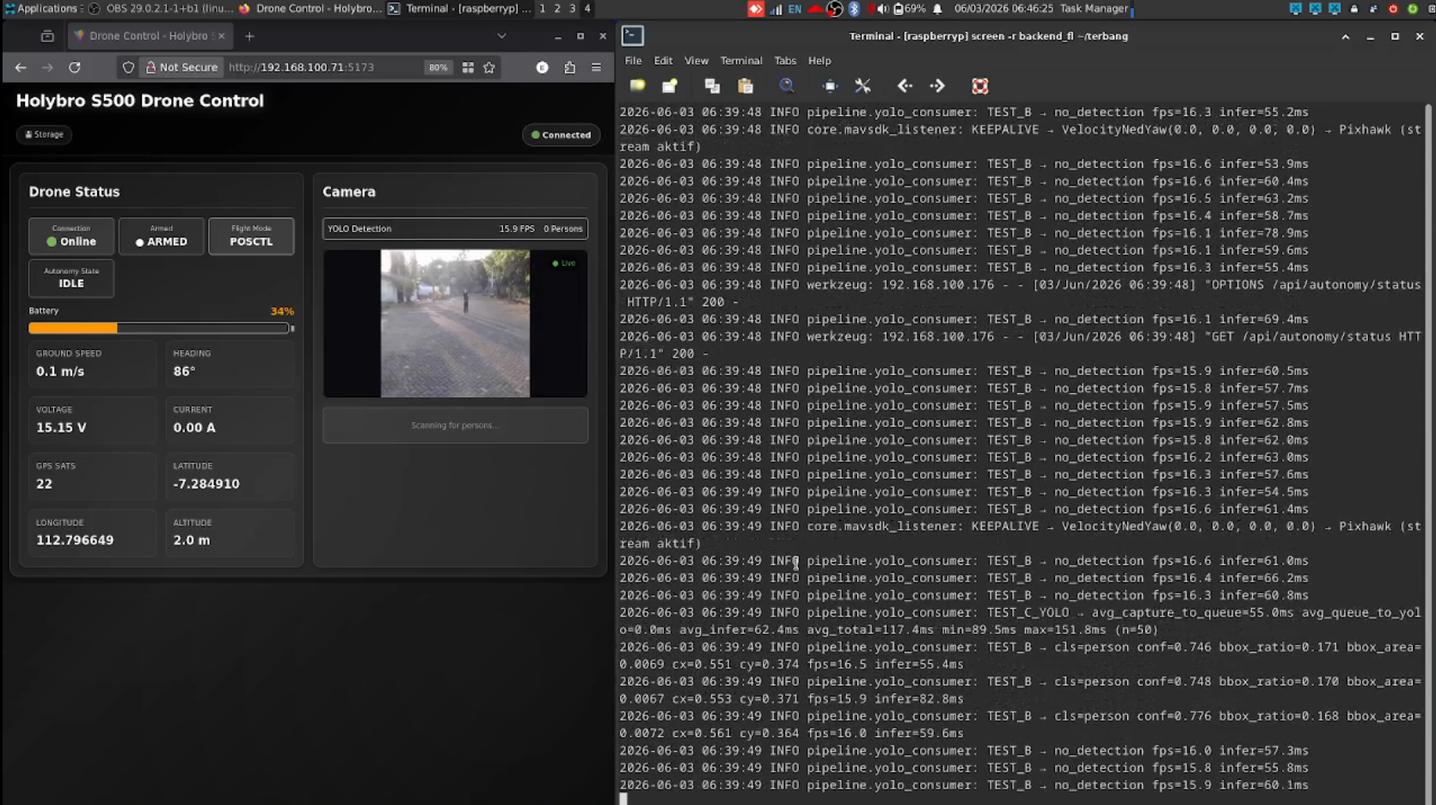
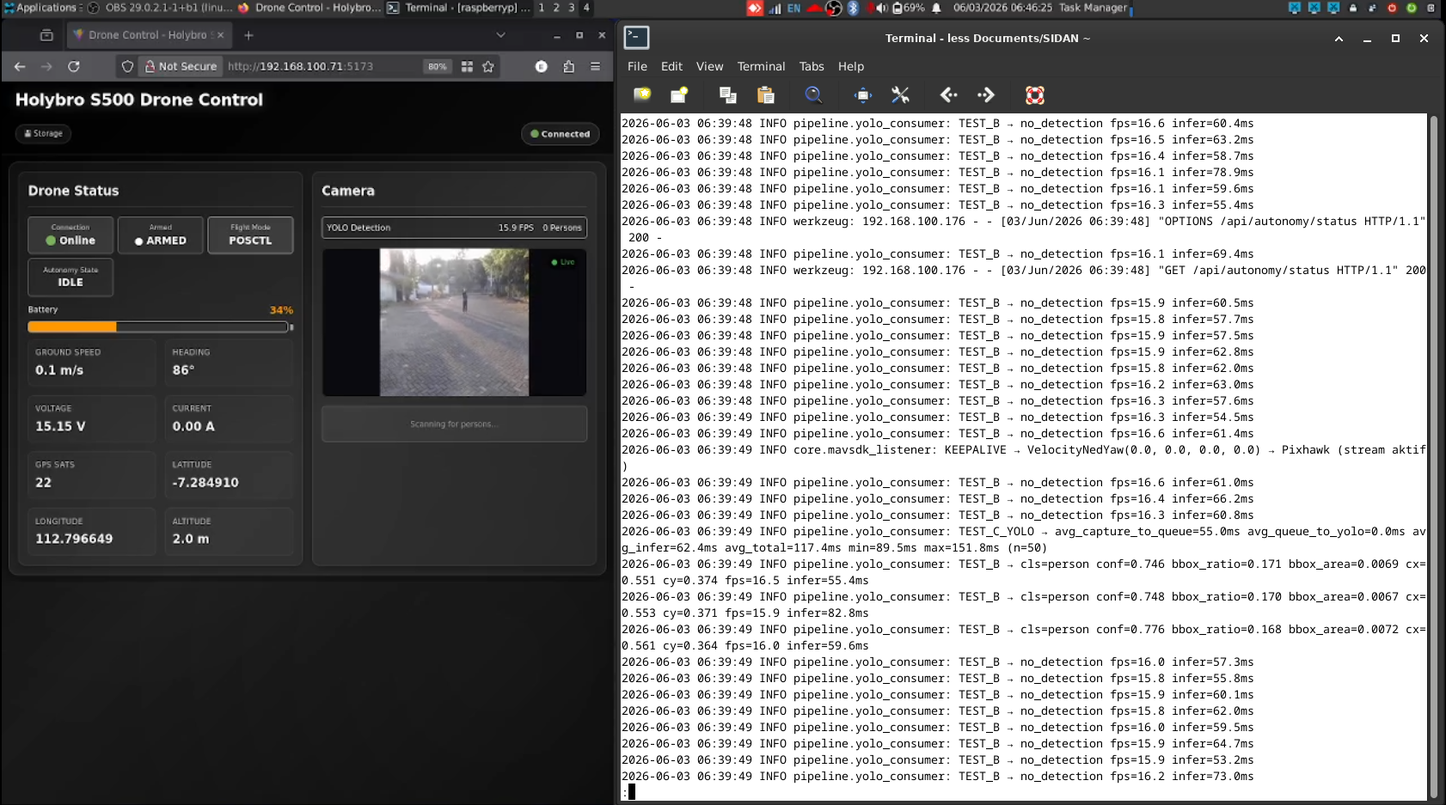
fix: for lecturer revision, change logs screenshot from dark to light mode

diff --git a/bab3/bab3.tex b/bab3/bab3.tex
@@ -51,14 +51,16 @@ Pada tahap ini dilakukan perancangan perilaku sistem kontrol drone otonom yang d
 \end{figure}
 
 \subsection{Perancangan Siklus Operasi Otonom}
-Perancangan siklus operasi otonom dilakukan untuk menentukan urutan perilaku drone selama menjalankan misi pencarian korban. Siklus operasi ini mencakup tahap inisialisasi sistem, aktivasi mode otonom, pelaksanaan pencarian korban, serta mekanisme penghentian misi dan keselamatan penerbangan. Pada sistem yang dirancang, pilot tetap memegang kendali utama pada tahap lepas landas untuk menjaga keselamatan penerbangan. Setelah drone berada pada kondisi terbang stabil, sistem otonom mulai mengambil alih proses navigasi dan pencarian korban secara otomatis berdasarkan logika state machine yang telah dirancang sebelumnya.
+Perancangan siklus operasi ini direpresentasikan dalam bentuk flowchart untuk menggambarkan urutan proses yang dijalankan drone selama misi pencarian korban. Alur operasi mencakup tahap inisialisasi sistem, aktivasi mode otonom melalui mode OFFBOARD, proses pencarian dan dokumentasi target, perpindahan area pencarian, hingga mekanisme penghentian misi melalui kondisi failsafe dan Return to Launch (RTL). Pada sistem yang dirancang, pilot tetap memegang kendali utama pada tahap lepas landas untuk menjaga keselamatan penerbangan. Setelah drone berada pada kondisi terbang stabil dan mode OFFBOARD diaktifkan, sistem otonom mulai mengambil alih proses navigasi dan pencarian korban secara otomatis.
 
 \begin{figure}[H]
 	\centering
-	\includegraphics[width=\linewidth]{bab3/flow3-3.pdf}
-	\caption{Blok Diagram Alur Scout Mission}
+	\includegraphics[width=0.5\textwidth]{bab3/flow3-3.pdf}
+	\caption{Flowchart Siklus Operasi Otonom Scout Mission}
 	\label{fig:blokdiagram3}
 \end{figure}
+
+Flowchart pada Gambar \ref{fig:blokdiagram3} menunjukkan urutan operasi sistem otonom selama pelaksanaan misi pencarian. Alur dimulai dari aktivasi mode OFFBOARD oleh pilot, dilanjutkan dengan proses pencarian target, pendekatan, dokumentasi, dan pergeseran area pencarian secara berulang. Siklus tersebut terus berlangsung hingga kondisi Return to Launch (RTL) terpenuhi akibat baterai kritis atau kehilangan koneksi sistem.
 
 \subsubsection{Inisialisasi Sistem}
 Tahap inisialisasi sistem merupakan tahap awal sebelum drone menjalankan mode otonom. Pada tahap ini seluruh komponen utama sistem diperiksa untuk memastikan kondisi operasional drone berada dalam keadaan layak terbang. Sistem melakukan pemeriksaan terhadap koneksi flight controller, validitas data GPS, kapasitas baterai, status kamera, dan ketersediaan data telemetri. Selain itu, sistem juga memastikan bahwa komunikasi antara companion computer dan flight controller telah berjalan dengan baik sebelum mode otonom diaktifkan. Proses inisialisasi bertujuan untuk meminimalkan risiko kegagalan sistem selama misi berlangsung dan memastikan seluruh subsistem dapat bekerja secara stabil sebelum drone menjalankan operasi pencarian.
@@ -295,7 +297,6 @@ Desain elektrikal bertujuan untuk mengatur skema aliran daya ke seluruh komponen
 
 Tahap desain mekanik berfokus pada perancangan struktur pendukung untuk mengintegrasikan komponen tambahan pada rangka \textit{quadcopter} Holybro S500. Prinsip utama dalam perancangan ini adalah menjaga keseimbangan drone dengan memperhatikan distribusi massa terhadap titik berat (\textit{center of gravity}/CG). Seluruh komponen tambahan dirancang untuk ditempatkan secara terpusat dan simetris pada bagian bawah rangka drone. Penempatan massa pada bagian bawah bertujuan untuk menurunkan posisi pusat massa sistem sehingga dapat meningkatkan stabilitas statis serta mengurangi kecenderungan osilasi saat drone melakukan navigasi otonom.
 
-% ================= PARAGRAF BARU: METODOLOGI CAD & LUBANG BAUT =================
 Seluruh proses perancangan geometri komponen mekanik dilakukan menggunakan metode pemodelan parametrik (\textit{parametric modeling}) pada perangkat lunak Autodesk Fusion 360. Pendekatan parametrik dipilih untuk mempermudah penyesuaian dimensi secara konsisten apabila terjadi perubahan spesifikasi komponen elektronik. Konfigurasi lubang pengikat pada perangkat lunak dirancang menggunakan fitur \textit{Hole} dengan spesifikasi \textit{Hole Type} berupa \textit{Simple} dan \textit{Counterbore} (untuk menyembunyikan kepala baut), \textit{Hole Tap Type} berjenis \textit{Simple}, serta bentuk ujung mata bor (\textit{Drill Point}) bertipe \textit{Flat} agar sesuai dengan karakteristik deposisi \textit{layer} cetak 3D.
 
 Dalam perancangan sirkuit pengikat, dimensi lubang baut (\textit{clearance holes}) dan ketebalan dinding tiang baut (\textit{standoff/boss}) disesuaikan dengan presisi untuk mengantisipasi efek penyusutan (\textit{shrinkage}) material plastik \textit{Fused Deposition Modeling} (FDM). Secara spesifik, perancangan dimensi lubang ditetapkan sebagai berikut:
@@ -307,7 +308,6 @@ Dalam perancangan sirkuit pengikat, dimensi lubang baut (\textit{clearance holes
 \end{itemize}
 
 Selain pengaturan diameter lubang, celah antar sambungan (\textit{assembly clearance}) pada komponen modular diatur pada rentang 0,1 mm hingga 0,2 mm. Nilai toleransi ini diterapkan untuk menjamin kelancaran proses perakitan fisik (\textit{fitment}) sekaligus mencegah adanya kelonggaran (\textit{play}) mekanis yang dapat memperparah getaran (\textit{vibration propagation}) dari motor drone ke sensor kamera.
-% ==============================================================================
 
 Dalam perancangan mekanik ini, proses penyatuan antar komponen hasil cetak 3D maupun integrasi dengan rangka utama dilakukan menggunakan pengikat mekanis (\textit{fasteners}) berupa baut baja metrik dan mur pengunci. Penggunaan baut M3 $\times$ 15 mm diaplikasikan pada struktur utama untuk meningkatkan kekakuan dan kestabilan sambungan mekanik. Sementara itu, baut M2 dengan variasi panjang 8 mm, 12 mm, dan 15 mm digunakan untuk mengunci kompartemen baterai, pelindung regulator daya, \textit{casing} Raspberry Pi, serta dudukan kamera.
 \begin{table}[H]
@@ -813,7 +813,26 @@ Sebagai sistem udara tanpa awak yang didesain untuk ranah pencarian korban di ar
 \begin{itemize}
 	\item OFFBOARD Keepalive: Mengingat batasan keamanan internal \textit{firmware} PX4, sistem secara konstan menembakkan setpoint instruksi kendali bernilai netral (\textit{keepalive}) sebanyak 20 kali per detik bahkan saat drone masih di darat. Ini adalah mitigasi agar PX4 mengizinkan perpindahan \textit{mode} penerbangan ke \textit{OFFBOARD} kapan pun pilot pada kendali radio menginginkannya.
 	\item Connection Watchdog: Mengawasi kontinuitas koneksi dari MAVSDK. Apabila putus dalam durasi tertentu, sistem seketika memicu perintah berhenti darurat (\textit{emergency stop}).
-	\item Battery Failsafe: Telemetri baterai dipantau secara kontinu. Apabila tingkat kapasitas baterai menyentuh ambang batas kritis (\texttt{BATTERY\_RTL\_THRESHOLD} sebesar $< 15\%$), sistem secara otomatis membatalkan seluruh tugas navigasi dan memicu fase pengamanan berupa pendakian paksa vertikal (\textit{pre-RTL safety climb}) selama 3,0 detik ke atas pada kecepatan $vz = -0,8$ m/s guna memitigasi efek penyimpangan barometer (\textit{barometric drift}). Setelah fase pendakian keselamatan selesai, drone mengirimkan perintah mode \textit{Return to Launch} (RTL) bawaan PX4 secara aman untuk menghentikan misi dan pulang ke titik asal lepas landas.
+	\item Battery Failsafe: Telemetri baterai dipantau secara kontinu. Apabila tingkat kapasitas baterai menyentuh ambang batas kritis sebesar $< 15\%$, sistem secara otomatis membatalkan seluruh tugas navigasi dan memicu fase pengamanan berupa pendakian paksa vertikal (\textit{pre-RTL safety climb}) selama 3,0 detik ke atas pada kecepatan $vz = -0,8$ m/s guna memitigasi efek penyimpangan barometer (\textit{barometric drift}). Setelah fase pendakian keselamatan selesai, drone mengirimkan perintah mode \textit{Return to Launch} (RTL) bawaan PX4 secara aman untuk menghentikan misi dan pulang ke titik asal lepas landas.
+
+	Mekanisme \textit{Battery Return-to-Launch} (RTL) yang diimplementasikan pada penelitian ini murni merupakan mekanisme keselamatan pada perangkat lunak otonom di \textit{companion computer} Raspberry Pi 5 dan sama sekali tidak menggunakan estimasi energi penerbangan. Sistem tidak menghitung kebutuhan energi berdasarkan jarak spasial menuju titik asal (\textit{home position}), tidak melakukan prediksi sisa waktu terbang (\textit{remaining flight time}), serta tidak mengestimasi konsumsi daya motor propulsi. Keputusan aktivasi Battery RTL menggunakan pendekatan \textit{fixed threshold} sebesar 15\% berdasarkan persentase baterai yang diterima melalui telemetri MAVSDK.
+
+	Nilai ambang batas sebesar 15\% ditetapkan sebagai parameter keselamatan operasional sistem. Nilai tersebut dipilih secara empiris berdasarkan konfigurasi pengujian yang digunakan pada penelitian ini. Threshold digunakan untuk menjamin tersedianya energi yang memadai selama:
+	\begin{itemize}
+		\item penghentian misi aktif,
+		\item pelaksanaan \textit{Pre-RTL Safety Climb},
+		\item transisi mode penerbangan,
+		\item dan proses \textit{Return-to-Launch}.
+	\end{itemize}
+	Urutan kerja operasional dari mekanisme keselamatan \textit{Battery RTL} ini berjalan secara sekuensial. Awalnya, \textit{Battery Sensor} mengukur status fisik daya baterai, lalu mengirimkannya ke \textit{PX4 Battery Estimator} untuk diestimasi persentasenya. Data persentase baterai ini ditransmisikan melalui \textit{MAVSDK Telemetry} ke \textit{companion computer} Raspberry Pi 5. Raspberry Pi 5 memonitor nilai persentase baterai ini secara terus-menerus. Ketika kapasitas baterai berada di atas batas kritis ($> 15\%$), misi penerbangan otonom tetap dilanjutkan (\textit{Continue Mission}). Namun, jika nilai persentase baterai mencapai atau kurang dari ambang batas ($\le 15\%$), Raspberry Pi 5 akan segera mengambil keputusan untuk menghentikan misi secara aktif (\textit{Abort Mission}). Selanjutnya, Raspberry Pi 5 memicu fase pengamanan \textit{Pre-RTL Safety Climb} dengan melakukan pendakian vertikal selama 3 detik pada kecepatan $vz = -0,8$ m/s. Setelah fase pendakian keselamatan selesai, Raspberry Pi 5 memanggil fungsi \texttt{return\_to\_launch()} secara terprogram melalui perintah aksi MAVSDK (\textit{MAVSDK Action}), sehingga autopilot PX4 kemudian mengeksekusi prosedur kepulangan otomatis (\textit{PX4 RTL}).
+	\begin{figure}[H]
+		\centering
+		\includegraphics[width=0.65\linewidth]{gambar/battery_rtl_flowchart.pdf}
+		\caption{Mekanisme Battery RTL Berbasis Fixed Threshold}
+		\label{fig:battery_rtl_flowchart}
+	\end{figure}
+
+	Gambar~\ref{fig:battery_rtl_flowchart} mendeskripsikan diagram alir dari mekanisme pengamanan baterai otonom. Berdasarkan skema tersebut, dapat diperjelas kembali bahwa \textit{companion computer} Raspberry Pi 5 tidak menghitung kebutuhan energi penerbangan, konsumsi daya motor, \textit{endurance} baterai, \textit{remaining flight time}, maupun jarak spasial menuju \textit{home position}. Raspberry Pi 5 hanya memonitor nilai persentase baterai (\textit{battery percentage}) yang diperoleh dari PX4 melalui telemetri MAVSDK sebagai pemicu logika keselamatan. Ketika persentase baterai mencapai atau kurang dari 15\%, sistem otonom di Raspberry Pi 5 membatalkan misi aktif, melakukan manuver \textit{Pre-RTL Safety Climb}, dan kemudian memanggil fungsi \texttt{return\_to\_launch()} melalui MAVSDK untuk memicu prosedur pulang otomatis.
 	\item Target Timeout Mitigation: Ketika berada dalam mode pengejaran target (\texttt{SCOUT\_APPROACH}), bila subjek hilang dari pantauan kamera melampaui 2 detik, atau jika target tak kunjung tergapai melebihi 20 detik, navigasi \textit{approach} dibatalkan dan digugurkan kembali ke awal fase \texttt{SCOUT\_SCAN}.
 	\item OFFBOARD Exit Handling: Sistem pemantau MAVSDK secara kontinu mengawasi transisi mode penerbangan. Apabila pilot mengambil alih kendali manual menggunakan \textit{remote controller} sehingga drone keluar dari mode \textit{OFFBOARD}, sistem perangkat lunak secara asinkron akan langsung menggugurkan (\textit{halt}) seluruh siklus misi otonom dengan aman untuk mencegah benturan komando navigasi.
 \end{itemize}
@@ -827,8 +846,8 @@ Desain arsitektur sistem ini menguraikan struktur integrasi logis antara kompone
 	\caption{Blok Diagram Keseluruhan Arsitektur Sistem}
 	\label{fig:blokfullarsitektur}
 \end{figure}
-Arsitektur sistem keseluruhan merepresentasikan perpaduan tatanan perangkat keras fisik (baterai, Raspberry Pi 5, dan kontrol motor) dengan rekayasa rekayasa perangkat lunak (\textit{pipeline} berbasis \textit{event}). Titik fundamental dari perancangan arsitektur ini adalah teknik manajemen sinkronisasi data antar modul yang beroperasi pada frekuensi denyut waktu yang sangat berbeda (\textit{multi-rate system}). Contohnya, telemetri drone bekerja pada puluhan Hertz, namun deteksi citra (YOLO) berkerja maksimal 10 hingga 15 Hertz. Sinkronisasi data ditangani menggunakan pola komunikasi \textit{message queue} guna mereduksi peluang malfungsi sistem komputasi seperti \textit{race condition}.
-
+Arsitektur sistem keseluruhan merepresentasikan integrasi antara subsistem perangkat keras dan perangkat lunak yang membentuk sistem drone otonom secara utuh. Pada sisi perangkat keras, sistem terdiri atas baterai LiPo 4S sebagai sumber daya utama, \textit{Power Distribution Board} (PDB), UBEC 5A, PX4 Flight Controller, Raspberry Pi 5 sebagai \textit{companion computer}, webcam Logitech C922 sebagai sensor visual, serta \textit{remote controller} sebagai mekanisme kendali dan keselamatan penerbangan. Distribusi daya dilakukan melalui dua jalur utama, yaitu jalur penerbangan yang menyuplai PX4 Flight Controller dan sistem propulsi melalui PDB, serta jalur komputasi yang menyuplai Raspberry Pi 5 melalui UBEC 5A. Kamera Logitech C922 terhubung ke Raspberry Pi 5 melalui antarmuka USB 3.0 untuk menyediakan masukan visual yang akan diproses oleh sistem deteksi manusia.
+Pada sisi perangkat lunak, Raspberry Pi 5 menjalankan subsistem komputasi otonom yang terdiri atas GStreamer, modul inferensi YOLOv8, Autonomy Controller, MAVSDK, serta layanan backend Flask dan SocketIO. Komunikasi antara Raspberry Pi 5 dan PX4 Flight Controller dilakukan menggunakan protokol MAVLink melalui antarmuka UART sehingga memungkinkan pertukaran data telemetri dan pengiriman perintah navigasi secara \textit{real-time}. Arsitektur ini dirancang menggunakan pendekatan \textit{multi-rate system}, di mana modul telemetri, pemrosesan citra, dan antarmuka monitoring dapat beroperasi pada frekuensi berbeda tanpa saling menghambat melalui mekanisme antrean data (\textit{queue}) dan komunikasi asinkron.
 \subsubsection{Alur Data End-to-End (Data Flow)}
 Seluruh perilaku drone di angkasa secara mendasar diorkestrasi oleh dua arus data yang bergerak melintas (\textit{cross-functional}) namun secara sengaja dipisahkan agar tak saling menciptakan penundaan:
 \begin{enumerate}

diff --git a/bab4/bab4.tex b/bab4/bab4.tex
@@ -741,10 +741,53 @@ Secara keseluruhan, hasil pengujian membuktikan bahwa implementasi FSM mampu men
 
 \begin{figure}[H]
 	\centering
-	\includegraphics[width=0.7\linewidth]{bab4/fsm_berjalan}
+	\includegraphics[width=\textwidth]{bab4/fsm_berjalan}
 	\caption{Transisi Finite State Machine selama operasi penerbangan}
 	\label{fig:fsm_berjalan}
 \end{figure}
+
+\subsubsection{Pengujian FSM pada Variasi Posisi Target}
+
+Pengujian validasi FSM sebelumnya dilakukan menggunakan target dengan posisi berdiri. Sebagai pengujian tambahan, pengujian juga dilakukan dengan menggunakan variasi target dalam posisi duduk dan tidur. Pengujian ini bertujuan untuk memvalidasi bahwa transisi state machine dari SCAN $\rightarrow$ DETECT $\rightarrow$ APPROACH $\rightarrow$ DOCUMENT $\rightarrow$ DISPLACING $\rightarrow$ RTL tetap berjalan dengan valid tanpa terpengaruh oleh variasi posisi tubuh target.
+
+\begin{figure}[H]
+	\centering
+	\includegraphics[width=\textwidth]{bab4/fsm_berdiri.png}
+	\caption{Hasil pengujian validasi FSM pada posisi target berdiri}
+	\label{fig:fsm_berdiri}
+\end{figure}
+
+\begin{figure}[H]
+	\centering
+	\includegraphics[width=\textwidth]{bab4/fsm_duduk.png}
+	\caption{Hasil pengujian validasi FSM pada posisi target duduk}
+	\label{fig:fsm_duduk}
+\end{figure}
+
+\begin{figure}[H]
+	\centering
+	\includegraphics[width=\textwidth]{bab4/fsm_tiduran.png}
+	\caption{Hasil pengujian validasi FSM pada posisi target tidur}
+	\label{fig:fsm_tidur}
+\end{figure}
+
+\begin{table}[H]
+	\centering
+	\caption{Hasil Pengujian Validasi State Machine pada Variasi Posisi Target}
+	\label{tab:fsm_variasi_posisi}
+	\renewcommand{\arraystretch}{1.0}
+	\begin{tabular}{|l|c|c|c|c|c|p{3.5cm}|}
+		\hline
+		\textbf{Posisi Target} & \textbf{Scan} & \textbf{Approach} & \textbf{Document} & \textbf{Displacing} & \textbf{RTL} & \textbf{Keterangan} \\ \hline
+		Berdiri & Ya & Ya & Ya & Ya & Ya & Seluruh tahapan FSM berhasil dijalankan tanpa kendala. \\ \hline
+		Duduk & Ya & Ya & Ya & Ya & Ya & Seluruh tahapan FSM berhasil dijalankan tanpa kendala. \\ \hline
+		Tidur & Ya & Ya & Ya & Ya & Ya & Deteksi berhasil ketika tubuh terlihat dari sisi kanan atau kiri sehingga kepala, badan, dan kaki dapat diamati secara bersamaan. \\ \hline
+	\end{tabular}
+\end{table}
+
+Pengujian menunjukkan bahwa sistem mampu menyelesaikan seluruh rangkaian \textit{state} misi pada target dengan posisi berdiri maupun duduk. Pada kedua kondisi tersebut, tubuh manusia masih terlihat dengan proporsi yang cukup lengkap dari sudut pandang kamera sehingga objek dapat dideteksi secara konsisten oleh model. Setelah target terdeteksi, FSM berhasil melakukan transisi dari \texttt{SCAN} menuju \texttt{APPROACH}, \texttt{DOCUMENT}, \texttt{DISPLACING}, hingga \texttt{RTL} tanpa kendala yang berarti.
+
+Pada posisi tidur ditemukan karakteristik yang berbeda. Deteksi manusia cenderung berhasil apabila kamera dapat menangkap sebagian besar bentuk tubuh manusia, mulai dari kepala hingga kaki, terutama ketika drone mengamati target dari sisi kanan atau sisi kiri tubuh. Sebaliknya, ketika drone berada pada orientasi yang hampir sejajar dengan sumbu tubuh target, misalnya tepat di belakang kepala atau tepat di depan kaki, objek manusia sering kali tidak terdeteksi karena bentuk tubuh yang terlihat pada citra menjadi sangat terbatas dan tidak menyerupai representasi manusia yang umum dipelajari model. Seiring pergerakan drone selama proses pencarian, sudut pandang kamera berubah sehingga bagian kepala, badan, dan kaki mulai terlihat secara bersamaan dari sisi tubuh target. Pada kondisi tersebut deteksi kembali berhasil dilakukan dan FSM dapat melanjutkan transisi ke tahapan misi berikutnya. Hasil ini menunjukkan bahwa keberhasilan sistem tidak hanya dipengaruhi oleh posisi tubuh target, tetapi juga oleh sudut pengamatan kamera terhadap target selama proses pencarian berlangsung.
 
 
 \subsection{Skenario B: Pengujian Akurasi Deteksi In-Flight (Airborne Detection Performance)}
@@ -759,15 +802,15 @@ Meskipun nilai \textit{confidence} deteksi tetap berada pada kisaran 0,74--0,82,
 
 \begin{figure}[H]
 	\centering
-	\begin{subfigure}{0.48\linewidth}
+	\begin{subfigure}{\textwidth}
 		\centering
-		\includegraphics[width=\linewidth]{bab4/deteksi5m}
+		\includegraphics[width=\textwidth]{bab4/deteksi5m}
 		\caption{Deteksi pada jarak 5 meter}
 	\end{subfigure}
 	\hfill
-	\begin{subfigure}{0.48\linewidth}
+	\begin{subfigure}{\textwidth}
 		\centering
-		\includegraphics[width=\linewidth]{bab4/deteksi20m}
+		\includegraphics[width=\textwidth]{bab4/deteksi20m}
 		\caption{Deteksi pada jarak 20 meter}
 	\end{subfigure}
 	\caption{Perbandingan deteksi target pada jarak 5 meter dan 20 meter}
@@ -891,7 +934,7 @@ Hasil pengujian menunjukkan bahwa sistem mampu membawa target ke area terpusat p
 
 \begin{figure}[H]
 	\centering
-	\includegraphics[width=0.7\linewidth]{bab4/document_triggered}
+	\includegraphics[width=\textwidth]{bab4/document_triggered}
 	\caption{Tangkapan layar saat \textit{document trigger} dieksekusi}
 	\label{fig:document_triggered}
 \end{figure}
@@ -930,6 +973,8 @@ Pengujian ini bertujuan untuk memvalidasi efektivitas mekanisme keselamatan dan 
 	
 	\item \textit{OFFBOARD Exit Handling}: Saat sistem keluar dari mode OFFBOARD, proses otonom langsung dihentikan sehingga tidak ada perintah navigasi yang tetap berjalan tanpa pengawasan operator.
 \end{enumerate}
+
+Sebelum memaparkan hasil pengujian pada Tabel~\ref{tab:safety_pre_rtl}, perlu ditegaskan bahwa pengujian fitur \textit{Battery RTL} ini sama sekali tidak bertujuan untuk mengevaluasi kinerja algoritma estimasi energi UAV yang adaptif. Penelitian ini murni menggunakan nilai batas tetap (\textit{fixed threshold}) yang ditetapkan secara konstan sebesar 15\% baterai. Oleh karena itu, pengujian yang dilakukan difokuskan untuk memvalidasi keberhasilan aktivasi \textit{failsafe} baterai kritis, yang meliputi keberhasilan penghentian misi aktif (\textit{mission abortion}), eksekusi manuver \textit{Pre-RTL Safety Climb}, transisi menuju mode penerbangan RTL bawaan PX4, serta jaminan keamanan operasional wahana secara keseluruhan selama proses penyelamatan darurat berlangsung.
 
 \begin{table}[H]
 	\centering
@@ -1005,20 +1050,20 @@ Berdasarkan hasil pengujian kuantitatif dan bukti kualitatif yang diperoleh dari
 
 \begin{figure}[H]
 	\centering
-	\includegraphics[width=0.8\linewidth]{bab4/battery_rtl_trigggered}
+	\includegraphics[width=\textwidth]{bab4/battery_rtl_trigggered}
 	\caption{Pemicu Battery RTL}
 	\label{fig:battery_rtl}
 	
 	\vspace{0.5cm}
 	
-	\includegraphics[width=0.8\linewidth]{bab4/preRTLdone_offboardExit}
+	\includegraphics[width=\textwidth]{bab4/preRTLdone_offboardExit}
 	\caption{Status Pre-RTL dan OFFBOARD Exit}
 	\label{fig:pre_rtl_exit}
 \end{figure}
 
 \begin{figure}[H]
 	\centering
-	\includegraphics[width=0.8\linewidth]{bab4/rc_override}
+	\includegraphics[width=\textwidth]{bab4/rc_override}
 	\caption{Intervensi operator (RC Override)}
 	\label{fig:rc_override}
 \end{figure}
@@ -1297,41 +1342,47 @@ Berdasarkan hasil pengujian, kondisi siang hari memberikan performa terbaik deng
 
 \begin{figure}[H]
 	\centering
-	\begin{subfigure}{0.48\linewidth}
+	\begin{subfigure}{\textwidth}
 		\centering
-		\includegraphics[width=\linewidth]{bab4/terbang_pagi}
+		\includegraphics[width=\textwidth]{bab4/terbang_pagi}
 		\caption{Kondisi Pagi}
 	\end{subfigure}
 	\hfill
-	\begin{subfigure}{0.48\linewidth}
+	\begin{subfigure}{\textwidth}
 		\centering
-		\includegraphics[width=\linewidth]{bab4/terbang_siang}
+		\includegraphics[width=\textwidth]{bab4/terbang_siang}
 		\caption{Kondisi Siang}
-	\end{subfigure}
-	
-	\vspace{0.5cm}
-	
-	\begin{subfigure}{0.48\linewidth}
-		\centering
-		\includegraphics[width=\linewidth]{bab4/terbang_sore}
-		\caption{Kondisi Sore}
-	\end{subfigure}
-	\hfill
-	\begin{subfigure}{0.48\linewidth}
-		\centering
-		\includegraphics[width=\linewidth]{bab4/terbang_malam_manusia}
-		\caption{Kondisi Malam (dengan iluminasi lampu)}
-	\end{subfigure}
-	
-	\vspace{0.5cm}
-	
-	\begin{subfigure}{0.48\linewidth}
-		\centering
-		\includegraphics[width=\linewidth]{bab4/terbang_malam_gelap}
-		\caption{Kondisi Malam Gelap}
 	\end{subfigure}
 	\caption{Perbandingan deteksi pada berbagai kondisi pencahayaan}
 	\label{fig:environmental_robustness}
+\end{figure}
+
+\begin{figure}[H]
+	\ContinuedFloat
+	\centering
+	\begin{subfigure}{\textwidth}
+		\centering
+		\includegraphics[width=\textwidth]{bab4/terbang_sore}
+		\caption{Kondisi Sore}
+	\end{subfigure}
+	\hfill
+	\begin{subfigure}{\textwidth}
+		\centering
+		\includegraphics[width=\textwidth]{bab4/terbang_malam_manusia}
+		\caption{Kondisi Malam (dengan iluminasi lampu)}
+	\end{subfigure}
+	\caption{Perbandingan deteksi pada berbagai kondisi pencahayaan (Lanjutan)}
+\end{figure}
+
+\begin{figure}[H]
+	\ContinuedFloat
+	\centering
+	\begin{subfigure}{\textwidth}
+		\centering
+		\includegraphics[width=\textwidth]{bab4/terbang_malam_gelap}
+		\caption{Kondisi Malam Gelap}
+	\end{subfigure}
+	\caption{Perbandingan deteksi pada berbagai kondisi pencahayaan (Lanjutan)}
 \end{figure}
 
 \section{Evaluasi Keberhasilan Sistem}

diff --git a/bab5/bab5.tex b/bab5/bab5.tex
@@ -14,6 +14,8 @@ Berdasarkan perancangan, implementasi, serta serangkaian pengujian terintegrasi 
 	\item Efisiensi Logika \textit{Persistent Multi-Target Scouting}: Sistem sukses mendemonstrasikan kapabilitas penjelajahan mandiri tanpa campur tangan operator melalui mode \textit{Scout Mission}. Pemanfaatan memori target historis (\textit{duplicate skip}) yang dipadukan dengan perhitungan radius eksklusi geospasial berbasis jarak \textit{Haversine} memungkinkan drone melakukan pemindaian, pendekatan, dokumentasi, dan perluasan area secara persisten berkelanjutan. Mekanisme ini mengatasi keterbatasan efisiensi dari siklus navigasi konvensional yang mewajibkan \textit{Return to Launch} (RTL) usai menemukan satu korban.
 	\item Ketahanan Pengamanan Terbang Rendah (\textit{Failsafe}): Desain arsitektur keselamatan tiga lapis (\textit{Three-Layer Safety System}) sukses beroperasi sebagai jaring pengaman utama (\textit{watchdog}). Validasi penerbangan membuktikan bahwa penolakan batas elevasi bawah (\textit{altitude floor}) dikombinasikan dengan manuver pendakian paksa (\textit{Pre-RTL Safety Climb}) sukses memitigasi anomali \textit{barometric drift}, memulihkan ketinggian wahana secara aman sebelum kendali RTL autopilot mengambil alih di saat baterai kritis.
 	\item Keterbatasan Sistem pada Lingkungan Ekstrem: Evaluasi \textit{environmental robustness} memperlihatkan adanya limitasi operasional yang kuat. Tingkat deteksi model kecerdasan buatan anjlok signifikan (di bawah 30\%) pada kondisi subuh dan sore hari akibat absennya sensor inframerah. Pada aspek komunikasi antarmuka, saluran \textit{streaming} video UDP latensi rendah melalui jaringan *onboard* MiFi 4G/5G rentan mengalami patah-patah (\textit{stuttering}) hingga \textit{freeze} apabila garis pandang sinyal menuju layar operator terhalang rintangan ruang yang padat. Selain itu, mekanisme \textit{duplicate exclusion} yang membatasi radius GPS 3 meter memiliki kelemahan berpotensi menganggap dua target berdekatan dalam radius tersebut sebagai target yang sama, sehingga drone dapat melewatkan korban kedua.
+
+	Selain itu, sebagai bagian dari ruang lingkup dan batasan sistem, penelitian ini belum mengimplementasikan estimasi kebutuhan energi penerbangan yang bersifat adaptif. Sistem belum mempertimbangkan jarak tempuh spasial aktual wahana terhadap titik asal (\textit{home position}), belum melakukan prediksi sisa waktu terbang (\textit{remaining flight time}), serta belum mengestimasi konsumsi daya motor propulsi. Fitur keselamatan \textit{Battery RTL} masih sepenuhnya menggunakan nilai ambang batas tetap (\textit{fixed threshold}) sebesar 15\% baterai. Oleh karena itu, pengembangan mekanisme \textit{energy-aware Return-to-Launch} yang lebih dinamis dapat menjadi arah penelitian lanjutan untuk mengoptimalkan efisiensi energi penerbangan drone otonom.
 \end{enumerate}
 
 \section{Saran}

diff --git a/bab1/bab1.tex b/bab1/bab1.tex
@@ -41,6 +41,7 @@ Agar ruang lingkup penelitian tetap terarah dan terukur, ditetapkan batasan masa
 	\item Sistem penglihatan komputer dibatasi pada penggunaan sensor optik RGB standar tanpa kapabilitas visi malam khusus (\textit{night vision} atau kamera termal). Eksekusi pengujian pada kondisi minim cahaya (subuh, petang, atau malam hari) dilakukan murni untuk mengevaluasi batasan toleransi (\textit{environmental robustness}) algoritma deteksi.
 	\item Transmisi pemantauan jarak jauh via \textit{dashboard} menggunakan jaringan nirkabel (Wi-Fi lokal atau seluler 4G/5G) diasumsikan berada pada area \textit{Line-of-Sight}, tanpa menjamin kekebalan terhadap gangguan \textit{video stuttering} akibat rintangan fisik padat.
 	\item Mekanisme penolakan target duplikat (\textit{duplicate exclusion}) murni mengandalkan filter jarak spasial absolut berbasis GPS (\textit{Haversine formula}), tanpa mengikutsertakan algoritma pengenalan identitas visual (\textit{Person Re-identification} / ReID) untuk membedakan korban yang bergerak silang.
+	\item Sistem tidak mengimplementasikan estimasi kebutuhan energi berdasarkan jarak tempuh menuju \textit{home position}, prediksi sisa waktu terbang, maupun estimasi konsumsi daya motor, serta tidak menerapkan \textit{energy-aware path planning}. Aktivasi fitur \textit{Return-to-Launch} (RTL) dilakukan menggunakan ambang batas baterai tetap (\textit{fixed threshold}) sebesar 15\% dengan nilai persentase baterai yang diperoleh langsung dari telemetri \textit{flight controller} PX4.
 \end{enumerate}
 
 \section{Manfaat Penelitian}

diff --git a/Init/lembar-pengesahan-en.tex b/Init/lembar-pengesahan-en.tex
@@ -42,25 +42,15 @@
   \advisor{}               & (Advisor I)                         \\
   NIP: \advisornip{}       &                                     \\
                            & ................................... \\
-                           &                                     \\
-                           &                                     \\
   \coadvisor{}             & (Co-Advisor II)                     \\
   NIP: \coadvisornip{}     &                                     \\
                            & ................................... \\
-                           &                                     \\
-                           &                                     \\
   \examinerone{}.          & (Examiner I)                        \\
   NIP: \examineronenip{}   &                                     \\
                            & ................................... \\
-                           &                                     \\
-                           &                                     \\
   \examinertwo{}.          & (Examiner II)                       \\
   NIP: \examinertwonip{}   &                                     \\
                            & ................................... \\
-                           &                                     \\
-                           &                                     \\
-
-
 \ifbool{bpenguji3}{
   \examinerthree{}.        & (Examiner III)                      \\
   NIP: \examinerthreenip{} &                                     \\

diff --git a/Init/lembar-pengesahan.tex b/Init/lembar-pengesahan.tex
@@ -42,23 +42,15 @@
   \advisor{}               & (Pembimbing I)                      \\
   NIP: \advisornip{}       &                                     \\
                            & ................................... \\
-                           &                                     \\
-                           &                                     \\
   \coadvisor{}             & (Pembimbing II)                     \\
   NIP: \coadvisornip{}     &                                     \\
                            & ................................... \\
-                           &                                     \\
-                           &                                     \\
   \examinerone{}.          & (Penguji I)                         \\
   NIP: \examineronenip{}   &                                     \\
                            & ................................... \\
-                           &                                     \\
-                           &                                     \\
   \examinertwo{}.          & (Penguji II)                        \\
   NIP: \examinertwonip{}   &                                     \\
                            & ................................... \\
-                           &                                     \\
-                           &                                     \\
 \ifbool{bpenguji3}{
   \examinerthree{}.        & (Penguji III)                       \\
   NIP: \examinerthreenip{} &                                     \\

diff --git a/TemplateTaTeknikKomputer.tex b/TemplateTaTeknikKomputer.tex
@@ -39,7 +39,7 @@
 % Daftar Penguji
 %========================================
 \PengujiSatu{Arta Kusuma Hernanda, S.T., M.T}{1996202311024} 
-\PengujiDua{Dr. Diah Puspito Wulandari, S.T., M.Sc.}{19801219200501 2 001} 
+\PengujiDua{Dr. Diah Puspito Wulandari, S.T., M.Sc}{19801219200501 2 001} 
 \PengujiTiga{Bambang Widjanarko, S.T., M.T}{} 
 
 %========================================
@@ -48,7 +48,7 @@
 \KepalaDepartemen{Dr. Arief Kurniawan, S.T., M.T}{19740907200212 1 001} 
 \Departemen{Teknik Komputer}{Computer Engineering}
 \Fakultas{Teknologi Elektro dan Informatika Cerdas}{Intelligent Electrical And Informatics Technology}
-\SingkatanFakultas{FTEIC}{FIEI}
+\SingkatanFakultas{FTEIC}{FTEIC}
 
 
 % Isi keseluruhan dokume
